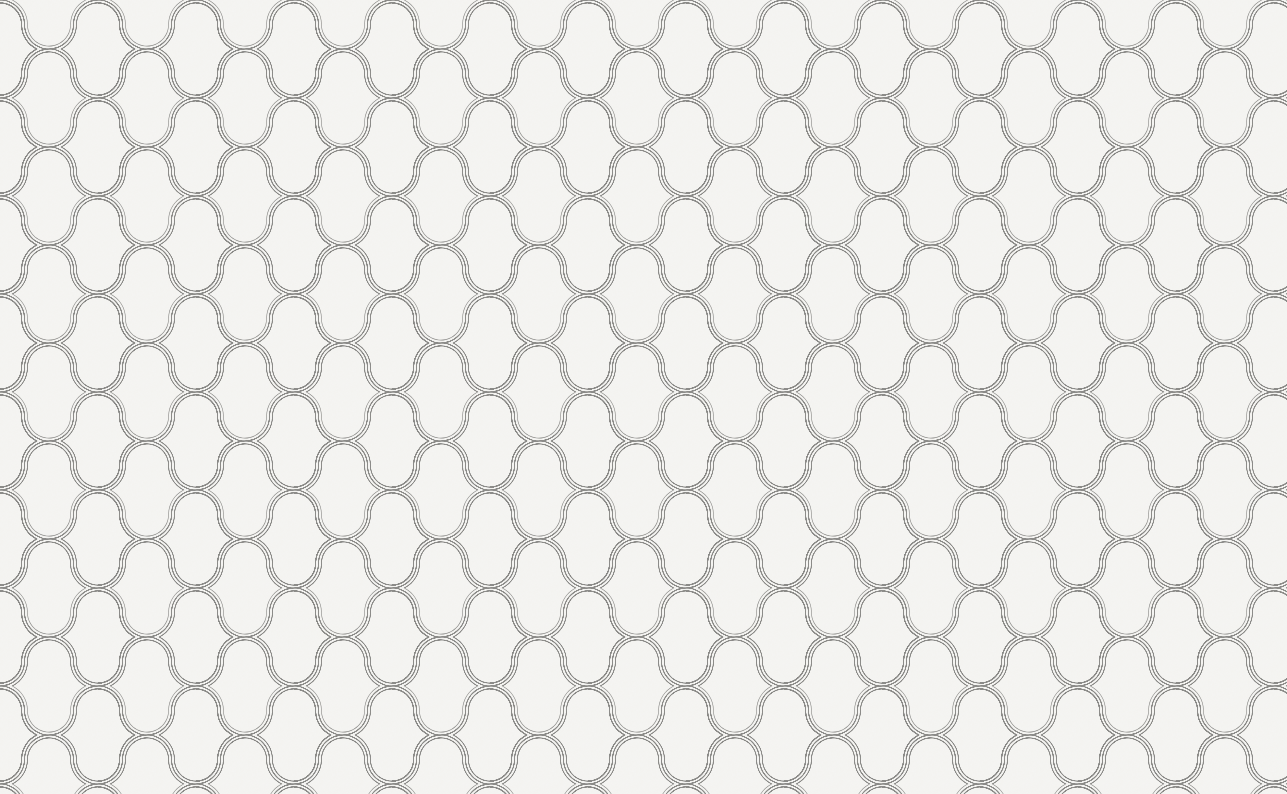
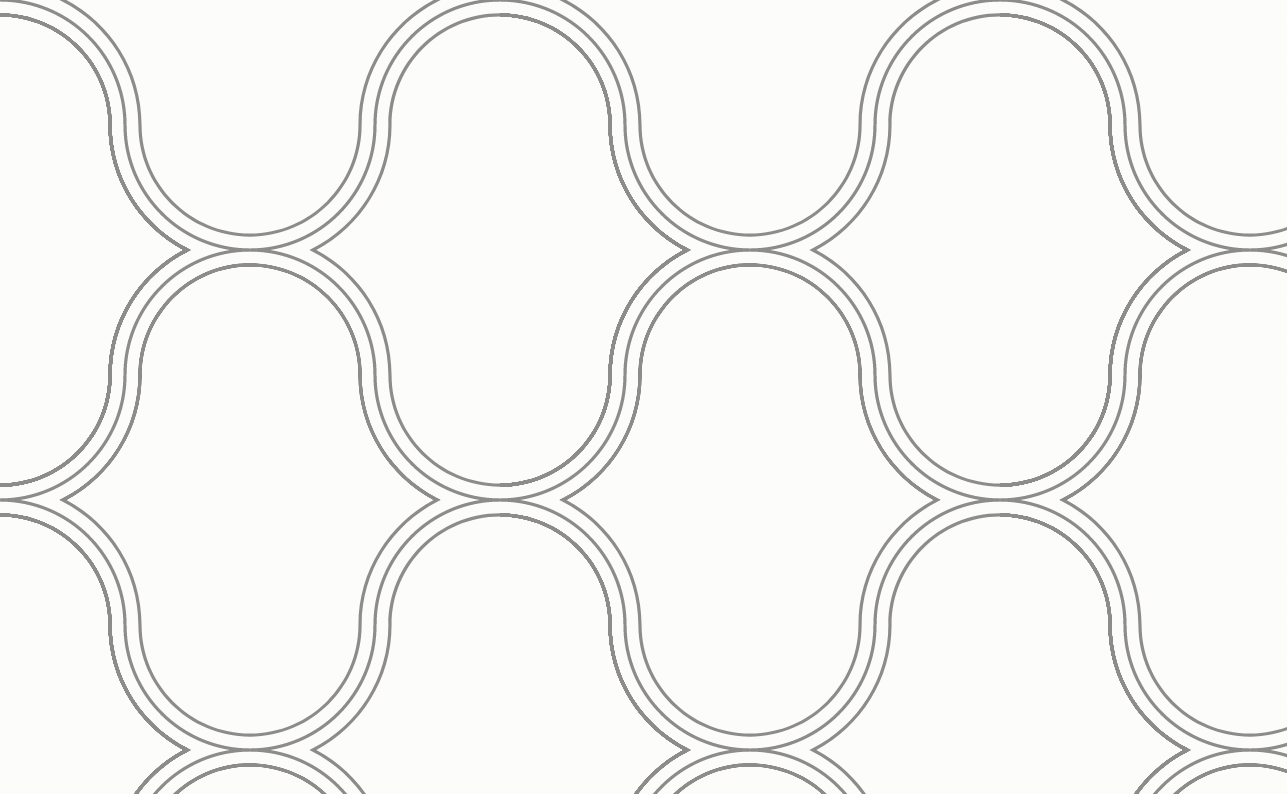
fix

diff --git a/app/assets/stylesheets/anbridges.scss b/app/assets/stylesheets/anbridges.scss
@@ -6,11 +6,14 @@ html {
   height: 100%;
 
   .main {
+    background-color: #e9e9e9;
+  }
+
+  .main {
     background-image: url('patter.png');
     background-position: center top;
     background-repeat: no-repeat;
-    -moz-background-size: cover;
-    background-size: cover;
+    background-size:auto 93%;
   }
 
 
@@ -79,9 +82,5 @@ html {
       	justify-content: center;
       }
     }
-  }
-
-  footer {
-    background-color: #e9e9e9;
   }
 }
